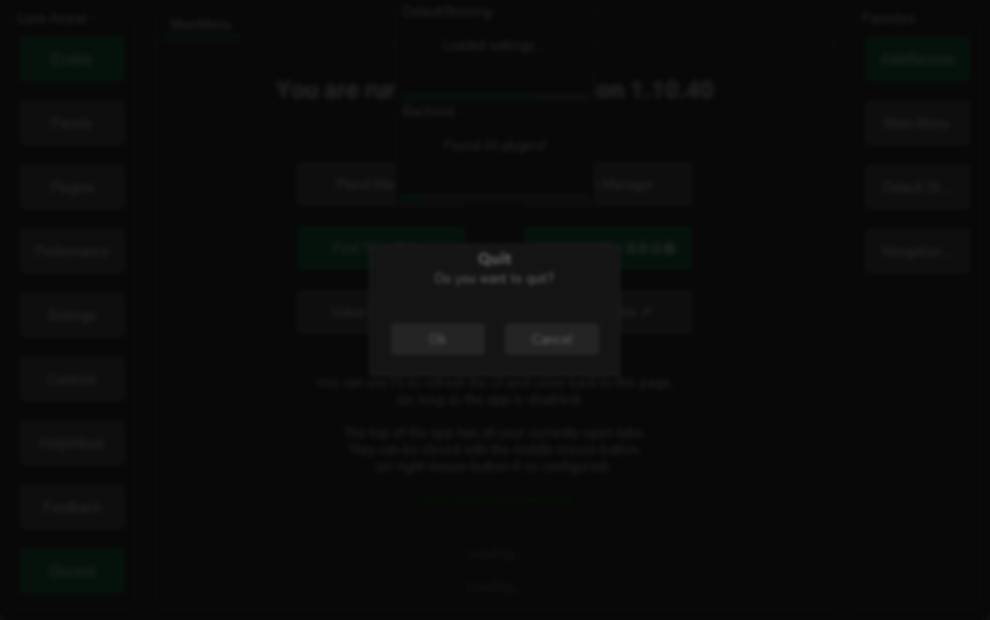
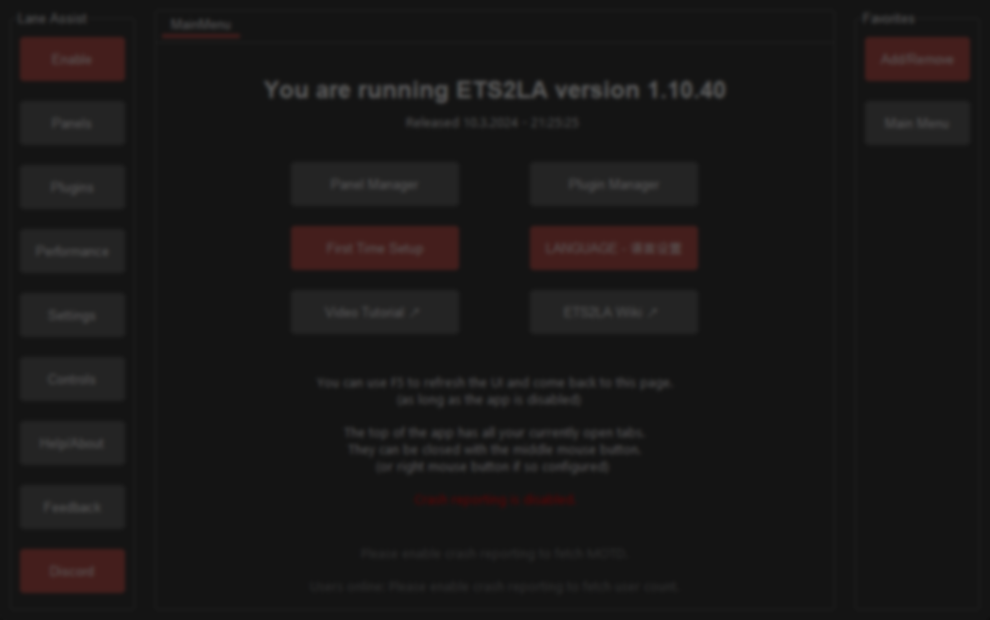
Add support for Dialogs.

diff --git a/src/helpers.py b/src/helpers.py
@@ -709,7 +709,7 @@ def DimAppBackground():
     ColorTitleBar(mainUI.root, "0x141414")
     return label
 
-def AskOkCancel(title, text):
+def AskOkCancel(title, text, yesno=False):
     """Similar to the tkinter messagebox, but will show the messagebox inside the app window. In addition it will dim the app background with some magic.
 
     Args:
@@ -747,9 +747,9 @@ def AskOkCancel(title, text):
     # Create the buttons
     buttonFrame = ttk.Frame(frame)
     buttonFrame.pack()
-    okButton = ttk.Button(buttonFrame, text="Ok", command=lambda: Answer(True))
+    okButton = ttk.Button(buttonFrame, text="Ok" if not yesno else "Yes", command=lambda: Answer(True))
     okButton.pack(side="left", padx=10)
-    cancelButton = ttk.Button(buttonFrame, text="Cancel", command=lambda: Answer(False))
+    cancelButton = ttk.Button(buttonFrame, text="Cancel" if not yesno else "No", command=lambda: Answer(False))
     cancelButton.pack(side="right", padx=10)
     # Place the messagebox
     frame.place(relx=0.5, rely=0.5, anchor="center")
@@ -785,3 +785,107 @@ def RunInMainThread(function, *args, **kwargs):
         function (lambda): The function to run.
     """
     RunIn(0, function, mainThread=True, *args, **kwargs)
+    
+def Dialog(title, text, options, enterOption="", escapeOption=""):
+    """Will show a dialog with the options specified.
+
+    Args:
+        title (str): Dialog title.
+        text (str): Dialog text.
+        options ([str]): The options to choose from (str array).
+        enterOption (str, optional): The option to bind the Enter key to. Defaults to "".
+        escapeOption (str, optional): The option to bind the Escape and Backspace keys to. Defaults to "".
+    
+    Returns:
+        str: The option that was chosen.
+    """
+    global selection
+    
+    # Dim the app 
+    background = DimAppBackground()
+    # Create the messagebox
+    f = tk.Frame()
+    frame = ttk.LabelFrame(mainUI.root, labelwidget=f)
+    title = ttk.Label(frame, text=title, font=("Segoe UI", 12, "bold"))
+    title.pack()
+    text = ttk.Label(frame, text=text)
+    text.pack()
+    
+    selection = None
+    def Answer(answer):
+        global selection
+        frame.destroy()
+        background.destroy()
+        from plugins.ThemeSelector.main import ColorTitleBar
+        ColorTitleBar(mainUI.root, "0x313131")
+        selection = answer
+    
+    # Empty line
+    ttk.Label(frame, text="").pack()
+    ttk.Label(frame, text="").pack()
+    
+    # Create the buttons
+    buttonFrame = ttk.Frame(frame)
+    buttonFrame.pack()
+    for option in options:
+        button = ttk.Button(buttonFrame, text=option, command=lambda option=option: Answer(option))
+        button.pack(side="left", padx=10)
+    # Place the messagebox
+    frame.place(relx=0.5, rely=0.5, anchor="center")
+    # Bind enter
+    if enterOption != "":
+        mainUI.root.bind("<Return>", lambda e: Answer(enterOption))
+    # Bind escape and backspace
+    if escapeOption != "":
+        mainUI.root.bind("<Escape>", lambda e: Answer(escapeOption))
+        mainUI.root.bind("<BackSpace>", lambda e: Answer(escapeOption))
+    # Increase the width and height of the frame by 20 to make it fit better
+    try:
+        frame.update()
+        propagateSize = frame.winfo_width() + 20, frame.winfo_height() + 20
+        frame.pack_propagate(False)
+        frame.config(width=propagateSize[0], height=propagateSize[1])
+    except: # Closed before the frame was updated
+        return selection
+    # Get focus if we don't have it
+    if not mainUI.root.focus_get():
+        mainUI.root.focus_force()
+    
+    mainUI.root.update()
+    
+    while selection == None:
+        # Wait for the user to press a button
+        mainUI.root.update()
+        
+    return selection
+
+class FrameDialog():
+    """Will create a new dialog to display a frame inside.
+    
+    Args:
+        closeButtonText (str, optional): The text of the close button. Defaults to "Close".
+    
+    Usage:
+    ```python	
+    dialog = FrameDialog()
+    frame = ttk.Frame(dialog.frame)
+    dialog.close()
+    ```
+    """
+    
+    def close(self):
+        """Will close the dialog."""
+        self.frame.destroy()
+        self.background.destroy()
+        from plugins.ThemeSelector.main import ColorTitleBar
+        ColorTitleBar(mainUI.root, "0x313131")
+        del self
+        
+    def __init__(self) -> None:
+        # Dim the app
+        self.background = DimAppBackground()
+        # Create the frame
+        f = tk.Frame()
+        self.frame = ttk.LabelFrame(mainUI.root, labelwidget=f)
+        # Place the frame
+        self.frame.place(relx=0.5, rely=0.5, anchor="center")

diff --git a/src/mainUI.py b/src/mainUI.py
@@ -181,7 +181,7 @@ def quit():
     """
     global root
     savePosition()
-    if helpers.AskOkCancel("Quit", "Do you want to quit?"):
+    if helpers.AskOkCancel("Quit", "Do you want to quit?", yesno=True):
         # Destroy the root window
         root.destroy()
         del root
@@ -469,6 +469,7 @@ def CreateRoot():
         buttonFrame.destroy()
     except:
         pass
+    
     buttonFrame = ttk.LabelFrame(root, text="Lane Assist", width=width-675, height=height)
     buttonFrame.pack_propagate(0)
     buttonFrame.grid_propagate(0)

diff --git a/main.py b/main.py
@@ -712,8 +712,7 @@ if __name__ == "__main__":
             data = UpdatePlugins("game", data)
             
             data = UpdatePlugins("before UI", data)
-            
-            
+
             # Calculate the execution time of the UI
             start = time.time()
             uiFrameTimer += 1
